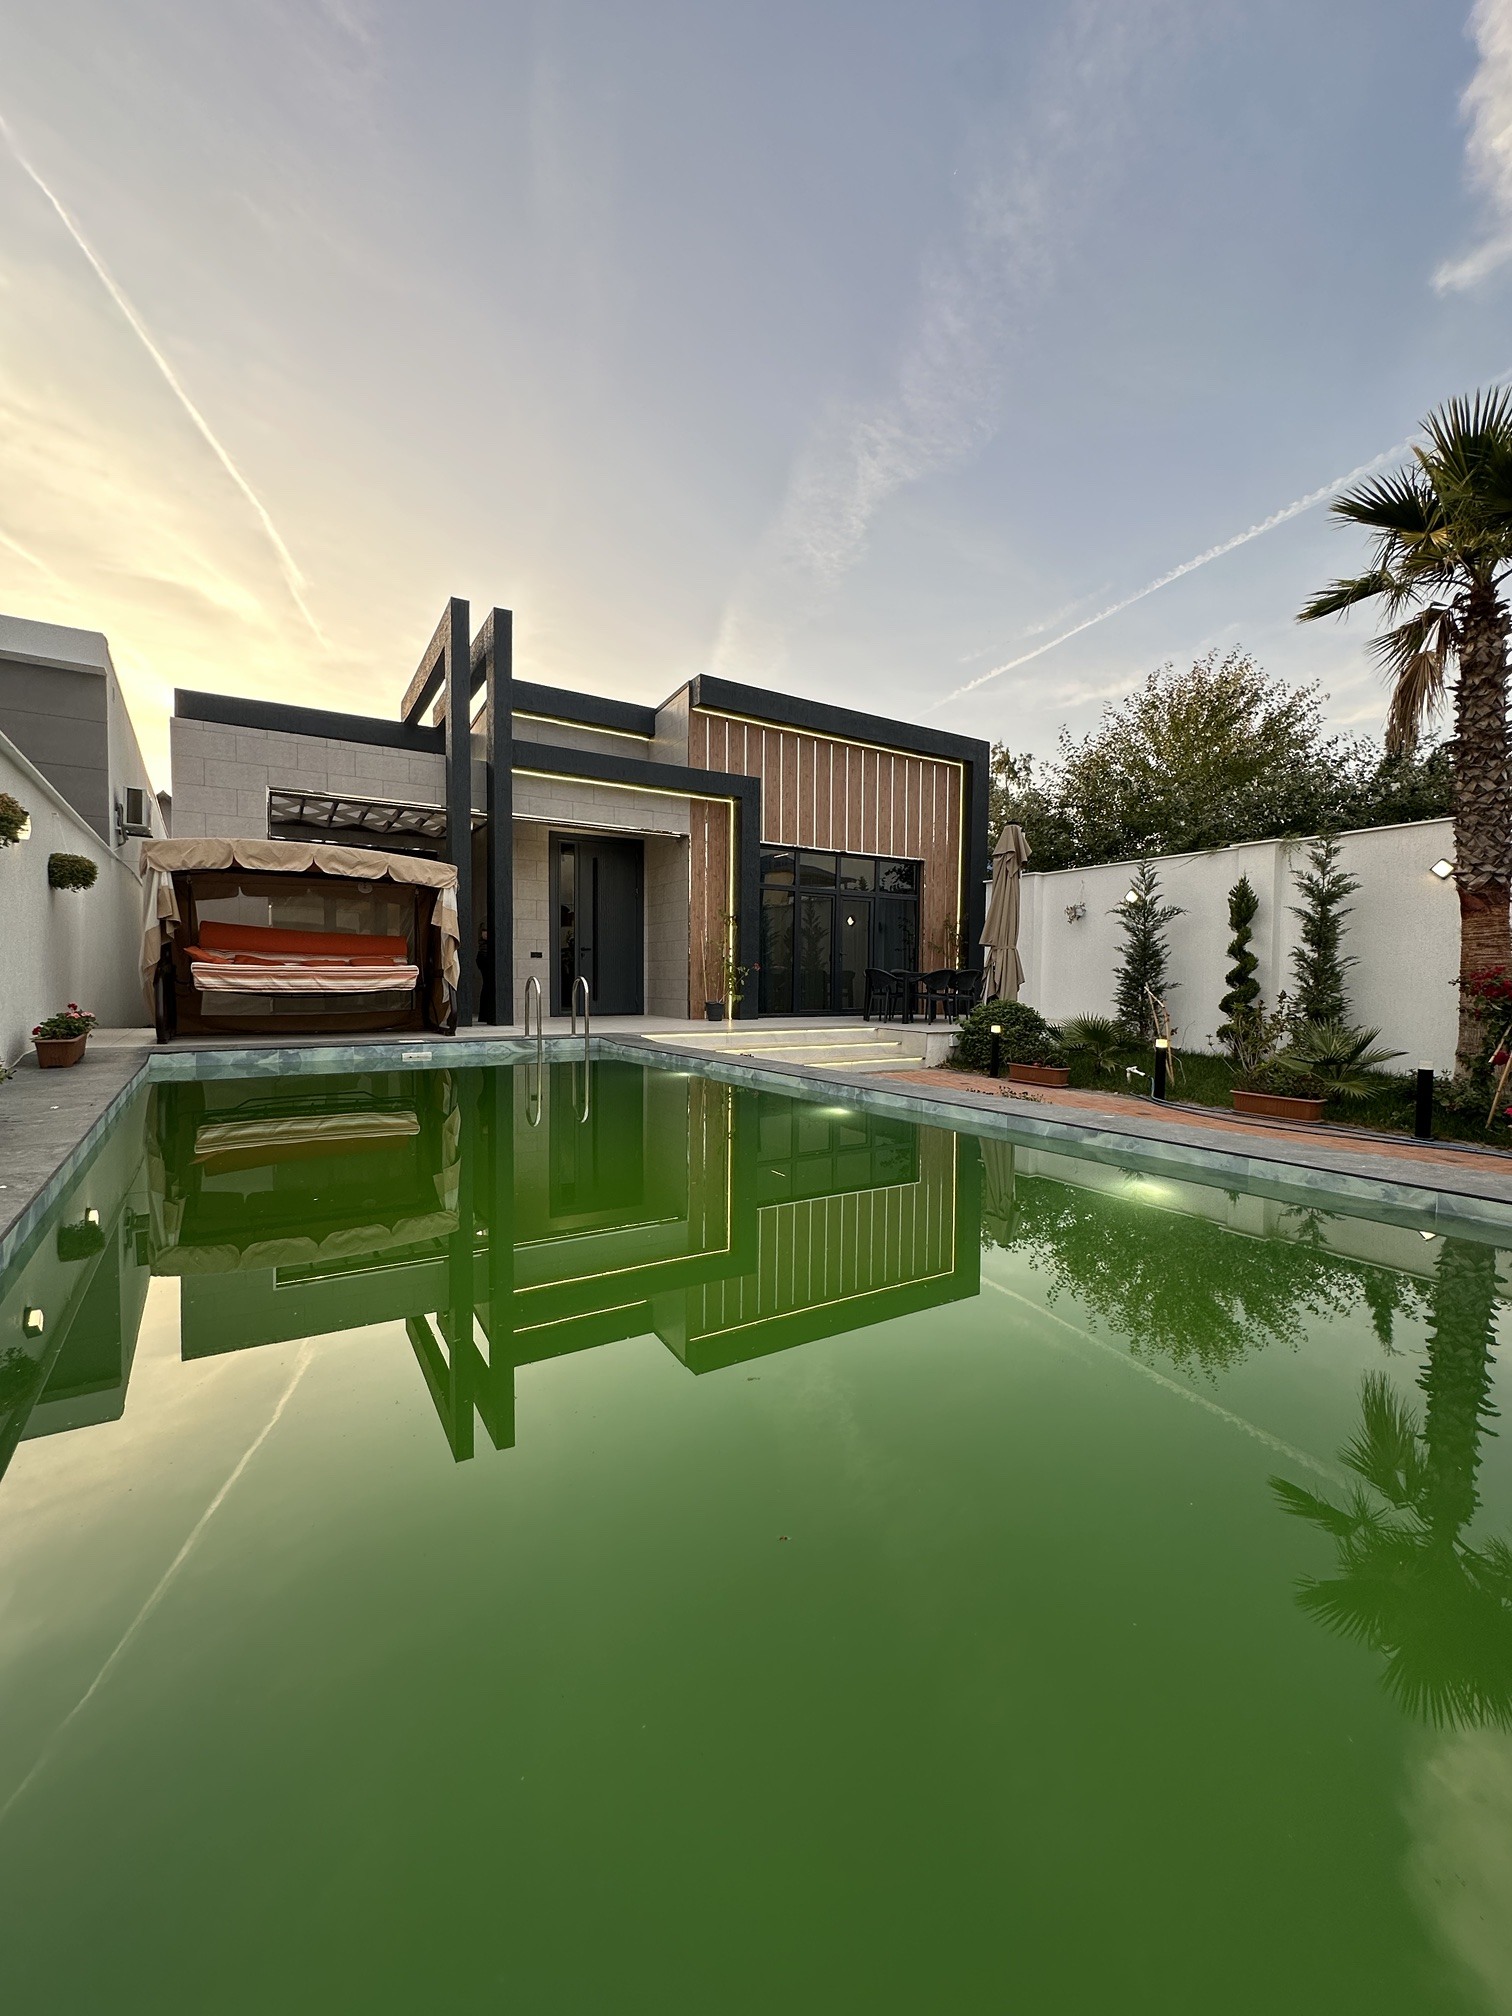
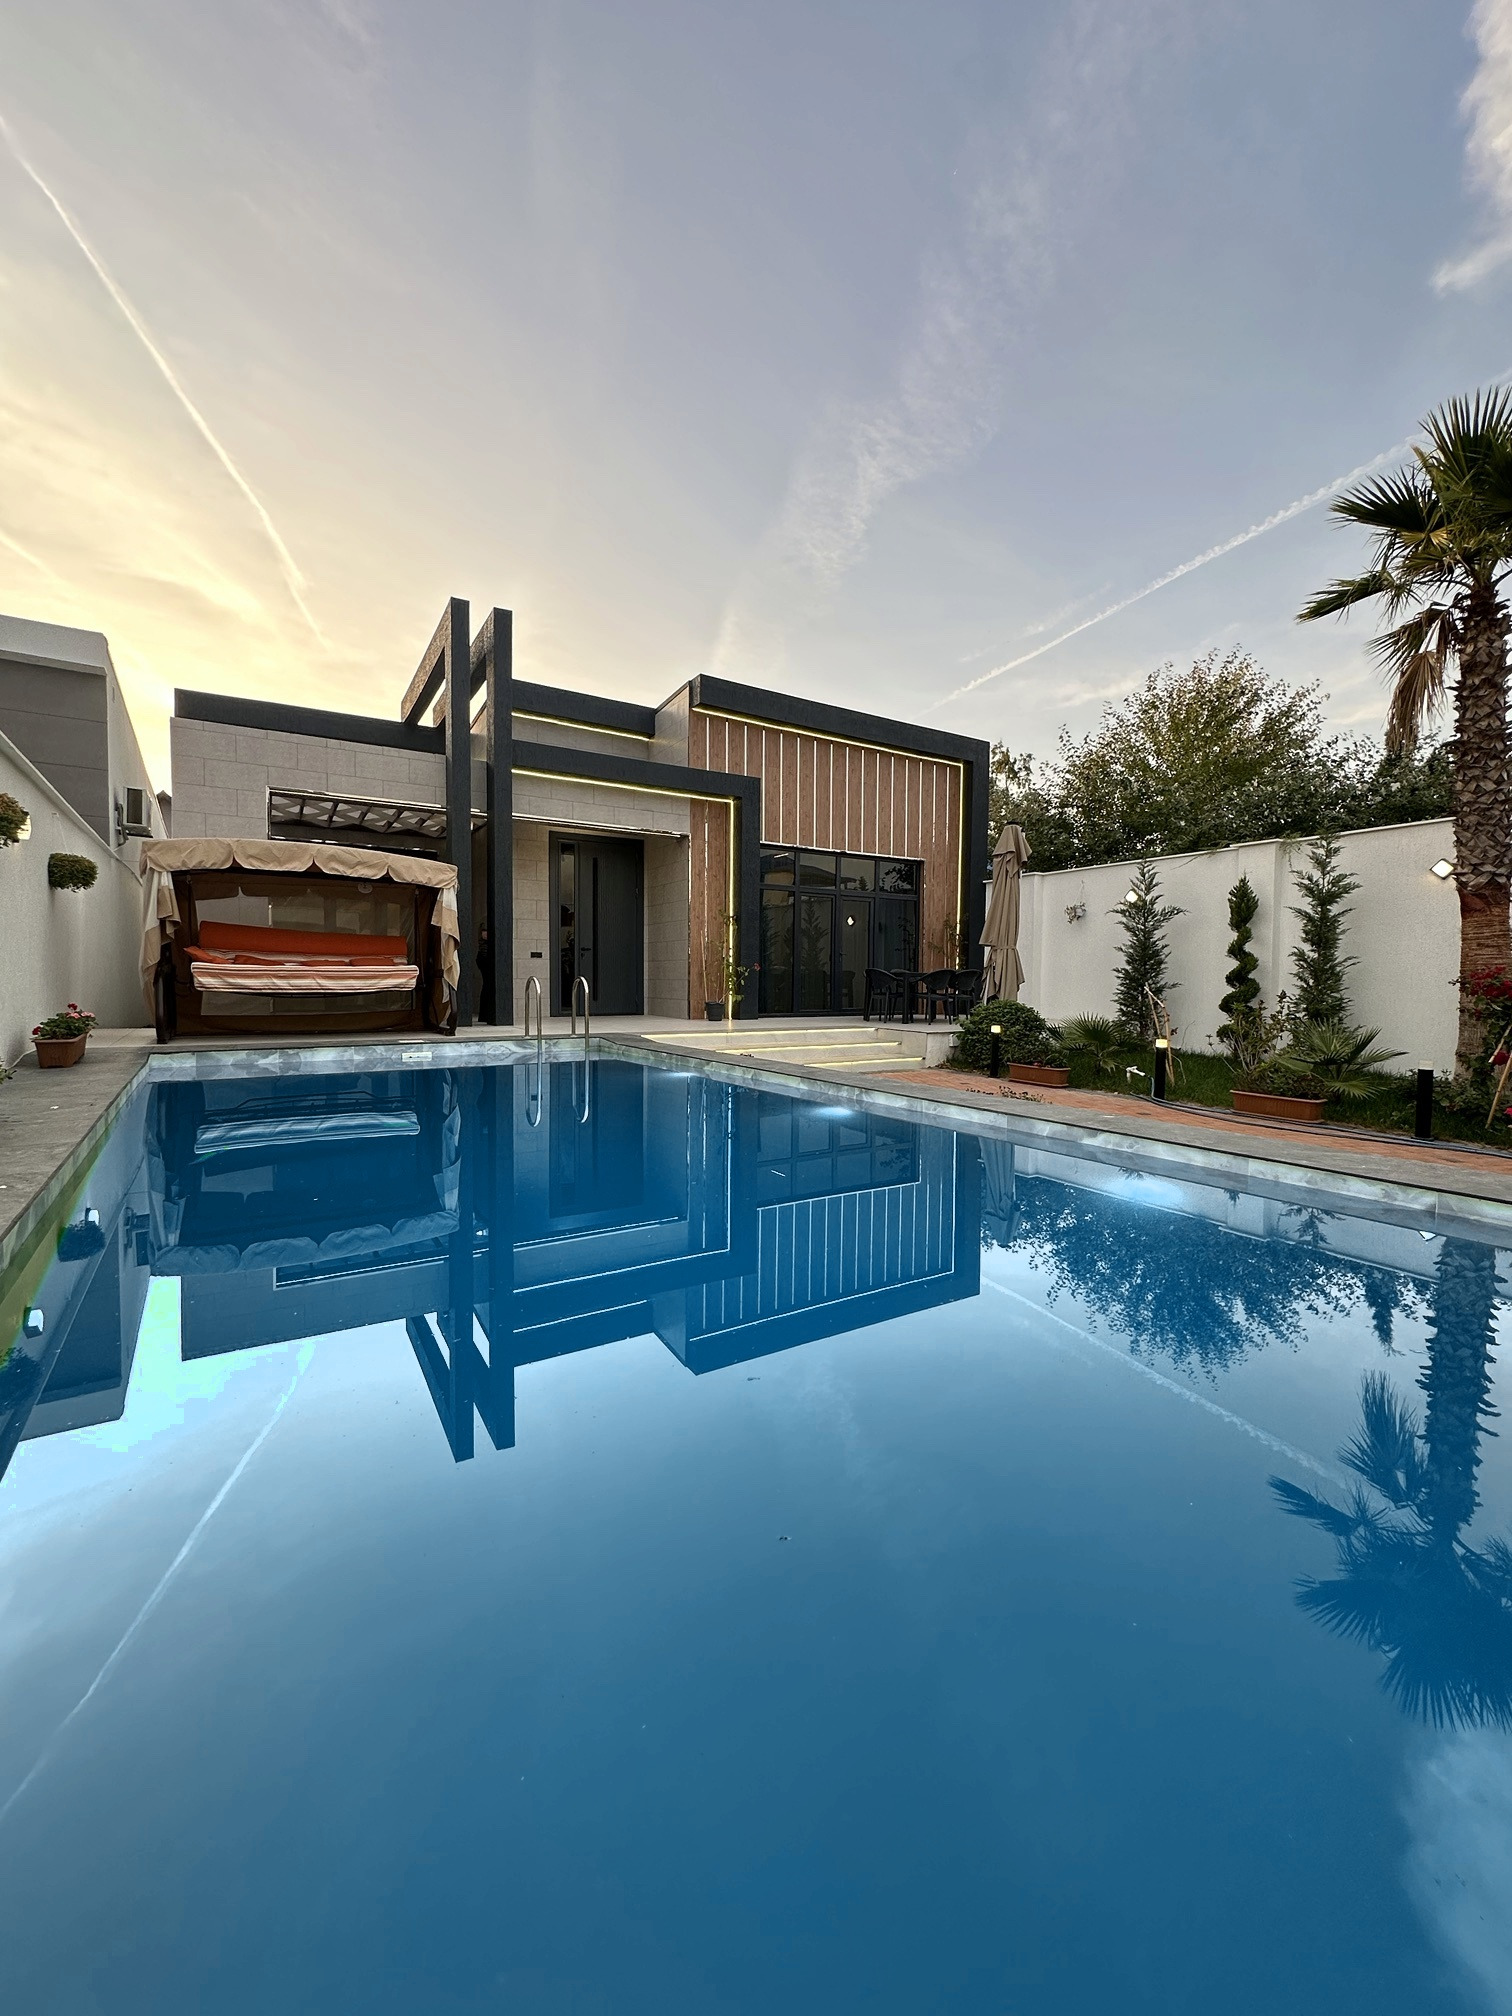
Mərdəkan 4.2 sot 160 m²: pool water recoloured to blue (poolblue.py), mockups refreshed
Claude-Session: https://claude.ai/code/session_01EhGUYEnuQ1XXHHYqr1RQrg

diff --git a/montaj/evler/merdekan-4-2sot-160m/poolblue.py b/montaj/evler/merdekan-4-2sot-160m/poolblue.py
@@ -1,0 +1,32 @@
+"""Hovuz suyunu yaşıldan göyə çevirir (orig/ -> photos/). Yalnız çəkilmiş poliqon içində, yaşıl tonlara təsir edir."""
+import cv2, numpy as np, sys
+from pathlib import Path
+D = Path(__file__).resolve().parent
+POLYS = {
+    "facade_pool":   [(140,1062),(520,1040),(980,1110),(1540,1215),(1540,2040),(-40,2040),(-40,1460)],
+    "pool_palm":     [(-40,1120),(560,1050),(980,990),(1540,1040),(1540,2040),(-40,2040)],
+    "facade_garden": [(0,1092),(470,1062),(560,1062),(560,1100),(0,1150)],
+    "terrace_pool":  [(700,1052),(1340,1042),(1440,1135),(760,1172)],
+}
+for k, poly in POLYS.items():
+    im = cv2.imread(str(D / "orig" / f"{k}.jpg"))
+    h, w = im.shape[:2]
+    m = np.zeros((h, w), np.uint8)
+    cv2.fillPoly(m, [np.array(poly, np.int32)], 255)
+    m = cv2.GaussianBlur(m, (0, 0), 3).astype(np.float32) / 255
+    hsv = cv2.cvtColor(im, cv2.COLOR_BGR2HSV).astype(np.float32)
+    H, S, V = hsv[..., 0], hsv[..., 1], hsv[..., 2]
+    # green/olive/teal hues (OpenCV 0..180): 25..95
+    gw = np.clip((H - 15) / 10, 0, 1) * np.clip((105 - H) / 10, 0, 1) * np.clip(S / 30, 0, 1)
+    wgt = (gw * m)
+    newH = 101.0  # clear pool blue (~202 deg)
+    hsv2 = hsv.copy()
+    hsv2[..., 0] = H * (1 - wgt) + newH * wgt
+    hsv2[..., 1] = np.clip(S * (1 + 0.25 * wgt), 0, 255)
+    hsv2[..., 2] = np.clip(V * (1 + 0.30 * wgt) + 8 * wgt, 0, 255)
+    out = cv2.cvtColor(hsv2.astype(np.uint8), cv2.COLOR_HSV2BGR)
+    cv2.imwrite(str(D / "photos" / f"{k}.jpg"), out, [cv2.IMWRITE_JPEG_QUALITY, 95])
+    if len(sys.argv) > 1:
+        sm = lambda a: cv2.resize(a, (375, 500))
+        cv2.imwrite(f"{sys.argv[1]}/pb_{k}.jpg", np.hstack([sm(im), sm(out)]))
+print("ok")
